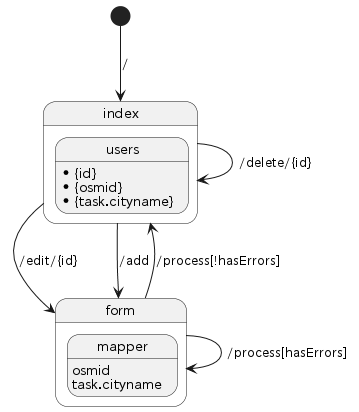
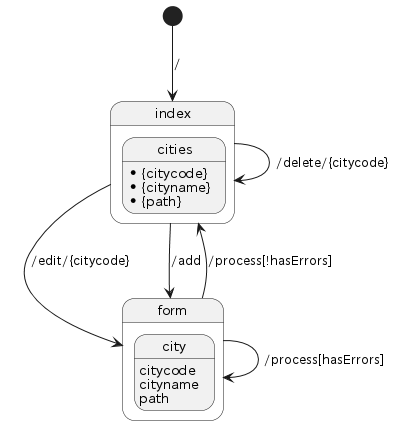
Plateau-BLDG のCRUD操作

diff --git a/src/main/resources/templates/form.html b/src/main/resources/templates/form.html
@@ -24,24 +24,28 @@
                 <h6 class="text-navy my-2">マッパー登録</h6>
               </div>
               <div class="card-body">
-                <form th:action="@{/process}" th:object="${mapper}" method="post">
+                <form th:action="@{/process}" th:object="${city}" method="post">
                   <input type="hidden" th:field="*{id}">
 
                   <div class="mb-3">
-                    <label for="osmid">OSM名</label>
-                    <input type="text" class="form-control" th:errorclass="is-invalid" th:field="*{osmid}">
-                    <div class="invalid-feedback" th:errors="*{osmid}">
+                    <label for="citycode">citycode</label>
+                    <input type="text" class="form-control" th:errorclass="is-invalid" th:field="*{citycode}">
+                    <div class="invalid-feedback" th:errors="*{citycode}">
                     </div>
                   </div>
 
                   <div class="mb-3">
-                    <label for="task">タスク</label>
-                    <select class="form-select" th:field="*{task}">
-                      <th:block th:each="task : ${@taskRepository.findAll()}">
-                        <option th:value="${task.id}" th:text="${task.cityname}">
-                        </option>
-                      </th:block>
-                    </select>
+                    <label for="cityname">cityname</label>
+                    <input type="text" class="form-control" th:errorclass="is-invalid" th:field="*{cityname}">
+                    <div class="invalid-feedback" th:errors="*{cityname}">
+                    </div>
+                  </div>
+
+                  <div class="mb-3">
+                    <label for="folder">folder</label>
+                    <input type="text" class="form-control" th:errorclass="is-invalid" th:field="*{folder}">
+                    <div class="invalid-feedback" th:errors="*{folder}">
+                    </div>
                   </div>
 
                   <hr>

diff --git a/src/main/resources/templates/index.html b/src/main/resources/templates/index.html
@@ -21,7 +21,7 @@
 
             <div class="card shadow">
               <div class="card-header">
-                <h6 class="text-navy my-2">マッパー一覧</h6>
+                <h6 class="text-navy my-2">Plateau 3D都市データ リスト</h6>
               </div>
               <div class="card-body">
 
@@ -35,16 +35,18 @@
                   <thead>
                     <tr>
                       <th>#</th>
-                      <th>OSM アカウント名</th>
-                      <th>city name</th>
+                      <th>citycode</th>
+                      <th>cityname</th>
+                      <th>folder</th>
                       <th></th>
                     </tr>
                   </thead>
                   <tbody>
-                    <tr th:each="mapper : ${mappers}" th:object="${mapper}">
+                    <tr th:each="city : ${cities}" th:object="${city}">
                       <td th:text="*{id}"></td>
-                      <td th:text="*{osmid}"></td>
-                      <td th:text="*{task.cityname}"></td>
+                      <td th:text="*{citycode}"></td>
+                      <td th:text="*{cityname}"></td>
+                      <td th:text="*{folder}"></td>
                       <td>
                         <a th:href="@{/edit/{id}(id=*{id})}" class="btn btn-navy">
                           <i class="bi bi-pencil-square"></i>

diff --git a/src/main/resources/templates/layout/layout.html b/src/main/resources/templates/layout/layout.html
@@ -29,7 +29,7 @@
               <i class="bi bi-credit-card-2-front-fill fs-3">
               </i>
             </span>
-            マッパー
+            Plateau-BLDG
           </a>
         </h4>
       </div>
@@ -40,13 +40,13 @@
           <li class="nav-item">
             <a th:href="@{/}" class="nav-link text-white">
               <i class="bi bi-table me-2"></i>
-              マッパーリスト
+              BLDGデータリスト
             </a>
           </li>
           <li class="nav-item">
             <a th:href="@{/add}" class="nav-link text-white">
               <i class="bi bi-person-fill me-2"></i>
-              マッパー登録
+              BLDGデータ登録
             </a>
           </li>
         </ul>

diff --git a/src/main/java/osm/surveyor/task/CityController.java b/src/main/java/osm/surveyor/task/CityController.java
@@ -10,41 +10,41 @@ import org.springframework.web.bind.annotation.PathVariable;
 import org.springframework.web.bind.annotation.PostMapping;
 
 import lombok.RequiredArgsConstructor;
-import osm.surveyor.task.model.Mapper;
+import osm.surveyor.task.model.City;
 
 @RequiredArgsConstructor
 @Controller
-public class MapperController {
-	private final MapperRepository repository;
+public class CityController {
+	private final CityRepository repository;
 	
 	@GetMapping("/")
 	public String showList(Model model) {
-		model.addAttribute("mappers", repository.findAll());
+		model.addAttribute("cities", repository.findAll());
 		return "index";
 	}
 	
 	@GetMapping("/add")
-	public String addMapper(@ModelAttribute Mapper mapper) {
+	public String addCity(@ModelAttribute City city) {
 		return "form";
 	}
 	
 	@PostMapping("/process")
-	public String process(@Validated @ModelAttribute Mapper mapper, BindingResult result) {
+	public String process(@Validated @ModelAttribute City city, BindingResult result) {
 		if (result.hasErrors()) {
 			return "form";
 		}
-		repository.save(mapper);
+		repository.save(city);
 		return "redirect:/";
 	}
 
 	@GetMapping("/edit/{id}")
-	public String editMapper(@PathVariable Long id, Model model) {
-		model.addAttribute("mapper", repository.findById(id));
+	public String editCity(@PathVariable Long id, Model model) {
+		model.addAttribute("city", repository.findById(id));
 		return "form";
 	}
 
 	@GetMapping("/delete/{id}")
-	public String deleteMapper(@PathVariable Long id) {
+	public String deleteCity(@PathVariable Long id) {
 		repository.deleteById(id);
 		return "redirect:/";
 	}

diff --git a/src/main/java/osm/surveyor/task/DataLoader.java b/src/main/java/osm/surveyor/task/DataLoader.java
@@ -4,26 +4,26 @@ import org.springframework.boot.CommandLineRunner;
 import org.springframework.stereotype.Component;
 
 import lombok.RequiredArgsConstructor;
-import osm.surveyor.task.model.Task;
+import osm.surveyor.task.model.City;
 
 @RequiredArgsConstructor
 @Component
 public class DataLoader implements CommandLineRunner {
-	private final TaskRepository repository;
+	private final CityRepository repository;
 	
 	@Override
 	public void run(String... args) throws Exception {
-		Task task = new Task();
-		task.setCitycode("01100");
-		task.setMeshcode("000000");
-		task.setCityname("北海道 札幌市");
-		repository.save(task);
+		City city = new City();
+		city.setCitycode("01100");
+		city.setCityname("北海道 札幌市");
+		city.setFolder("01100_sapporo-shi_2020");
+		repository.save(city);
 
-		task = new Task();
-		task.setCitycode("07203");
-		task.setMeshcode("000000");
-		task.setCityname("福島県 郡山市");
-		repository.save(task);
+		city = new City();
+		city.setCitycode("07203");
+		city.setCityname("福島県 郡山市");
+		city.setFolder("07203_koriyama-shi_2020");
+		repository.save(city);
 	}
 
 }

diff --git a/src/main/java/osm/surveyor/task/model/City.java b/src/main/java/osm/surveyor/task/model/City.java
@@ -4,9 +4,7 @@ import javax.persistence.Entity;
 import javax.persistence.GeneratedValue;
 import javax.persistence.GenerationType;
 import javax.persistence.Id;
-import javax.persistence.ManyToOne;
 import javax.validation.constraints.NotBlank;
-import javax.validation.constraints.Size;
 
 import lombok.Getter;
 import lombok.Setter;
@@ -14,17 +12,21 @@ import lombok.Setter;
 @Getter
 @Setter
 @Entity
-public class Mapper {
+public class City {
 	@Id
-	@GeneratedValue(strategy = GenerationType.IDENTITY)
+	@GeneratedValue(strategy=GenerationType.IDENTITY)
 	private Long id;
 	
-	// 必須入力、(null,空白不可)
 	@NotBlank
-    @Size(max = 40)
-	private String osmid;
+	private String citycode;
 	
-	// 'Task' とのリレーション
-	@ManyToOne
-	private Task task;
+	@NotBlank
+	private String cityname;
+	
+	@NotBlank
+	private String folder;
+	
+	private Double lng;
+	
+	private Double lat;
 }

diff --git a/src/main/java/osm/surveyor/task/CityRepository.java b/src/main/java/osm/surveyor/task/CityRepository.java
@@ -1,0 +1,8 @@
+package osm.surveyor.task;
+
+import org.springframework.data.jpa.repository.JpaRepository;
+
+import osm.surveyor.task.model.City;
+
+public interface CityRepository extends JpaRepository<City,Long> {
+}
